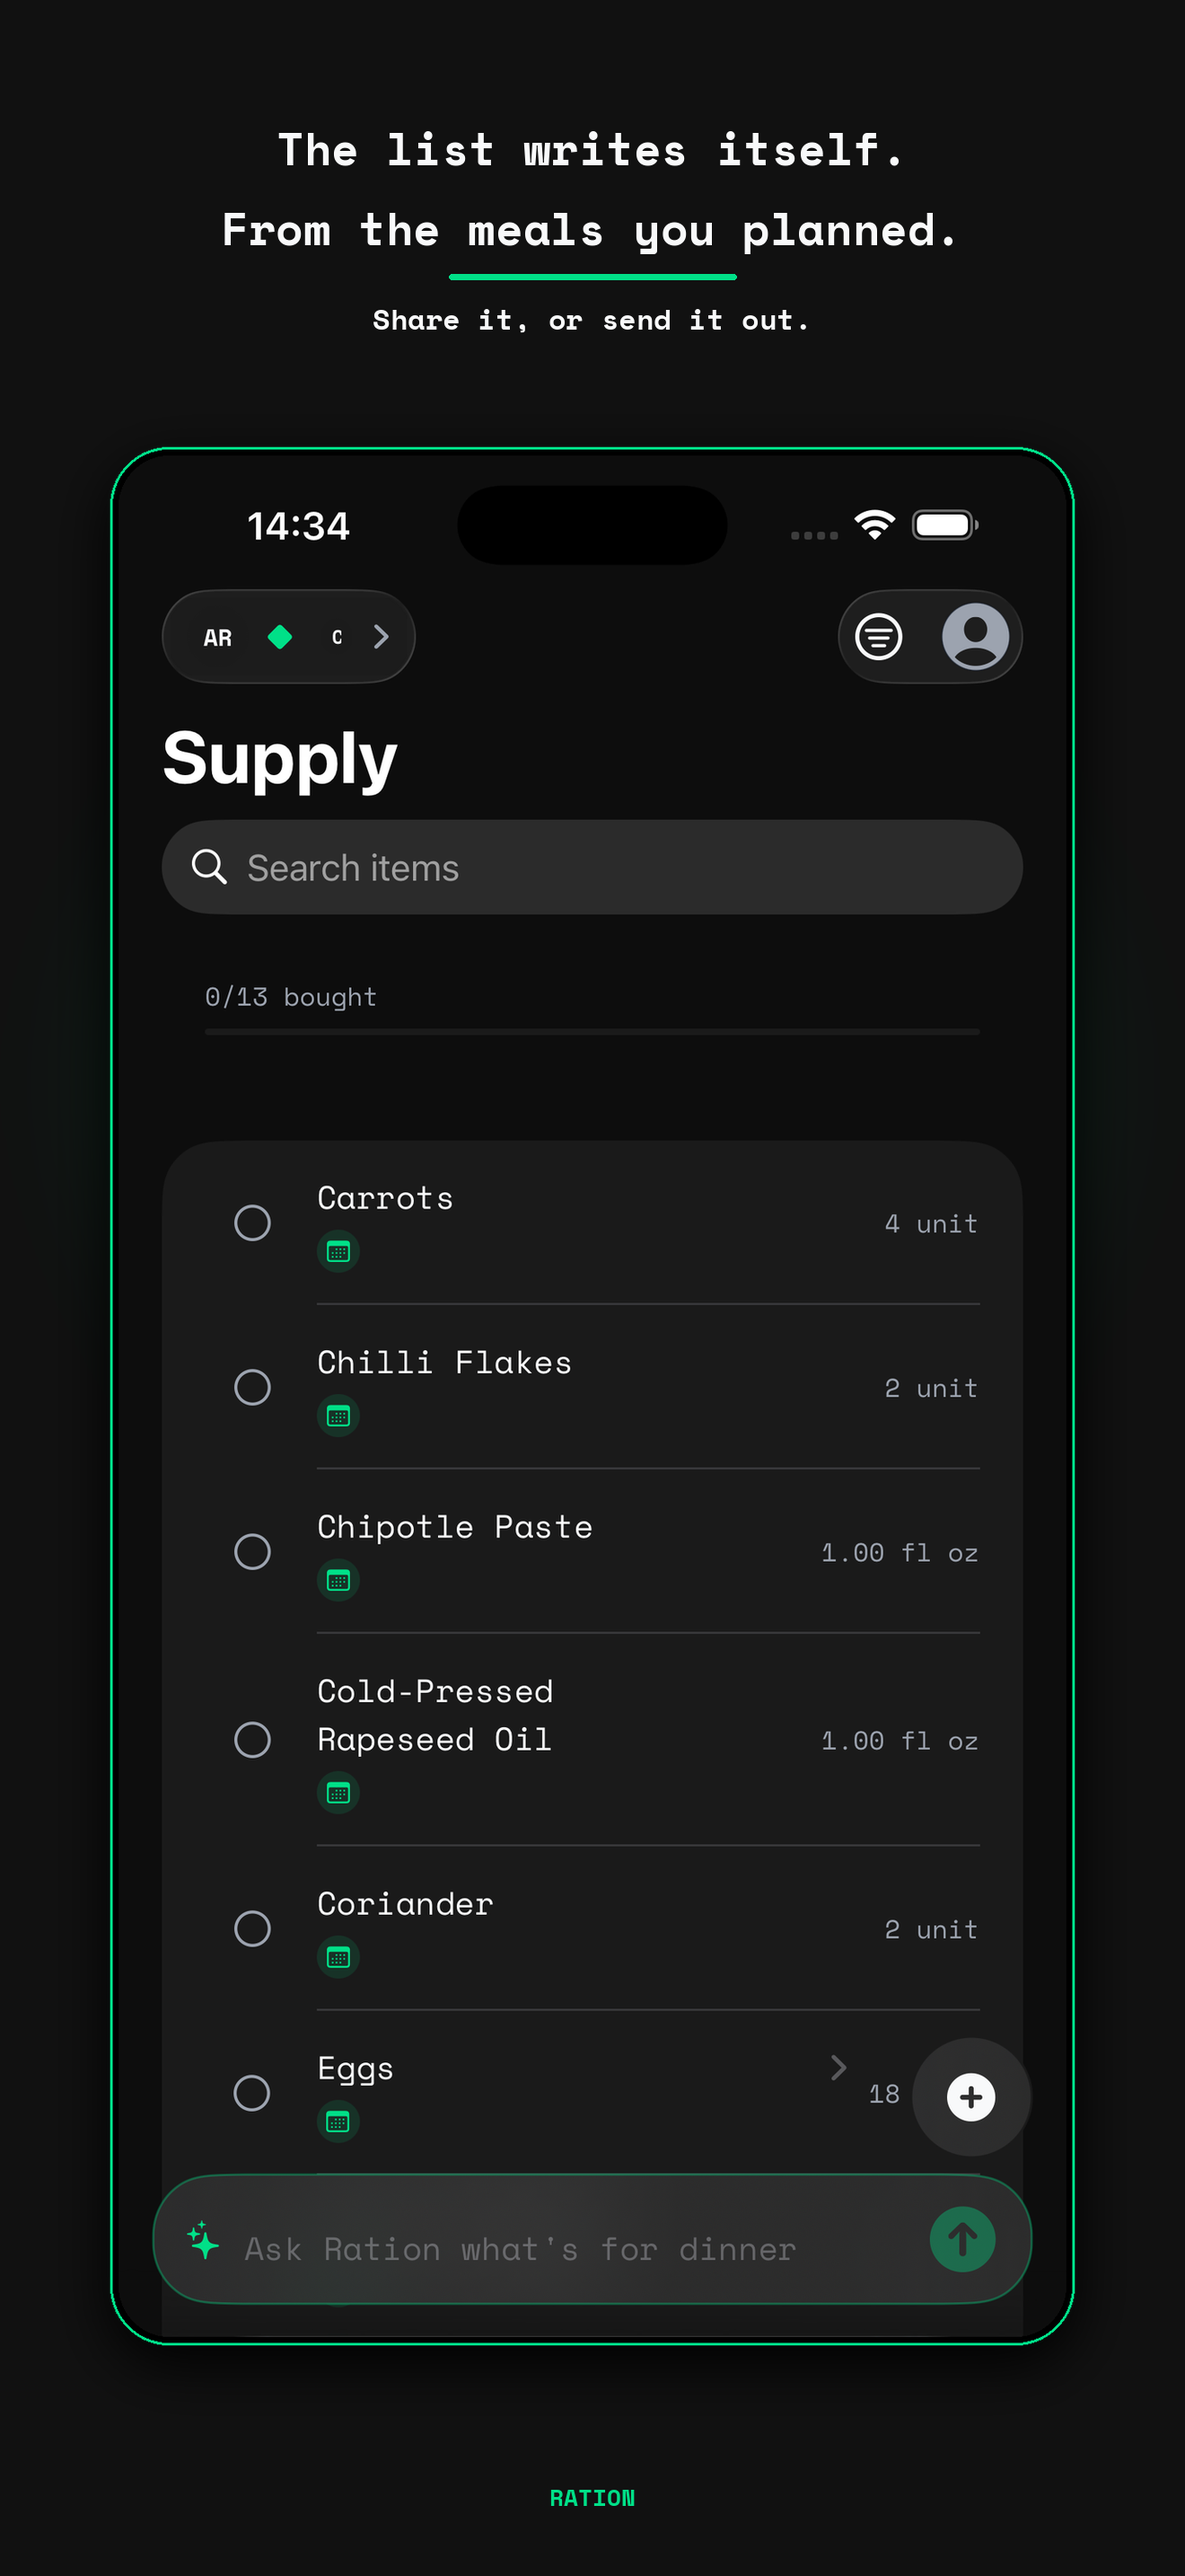
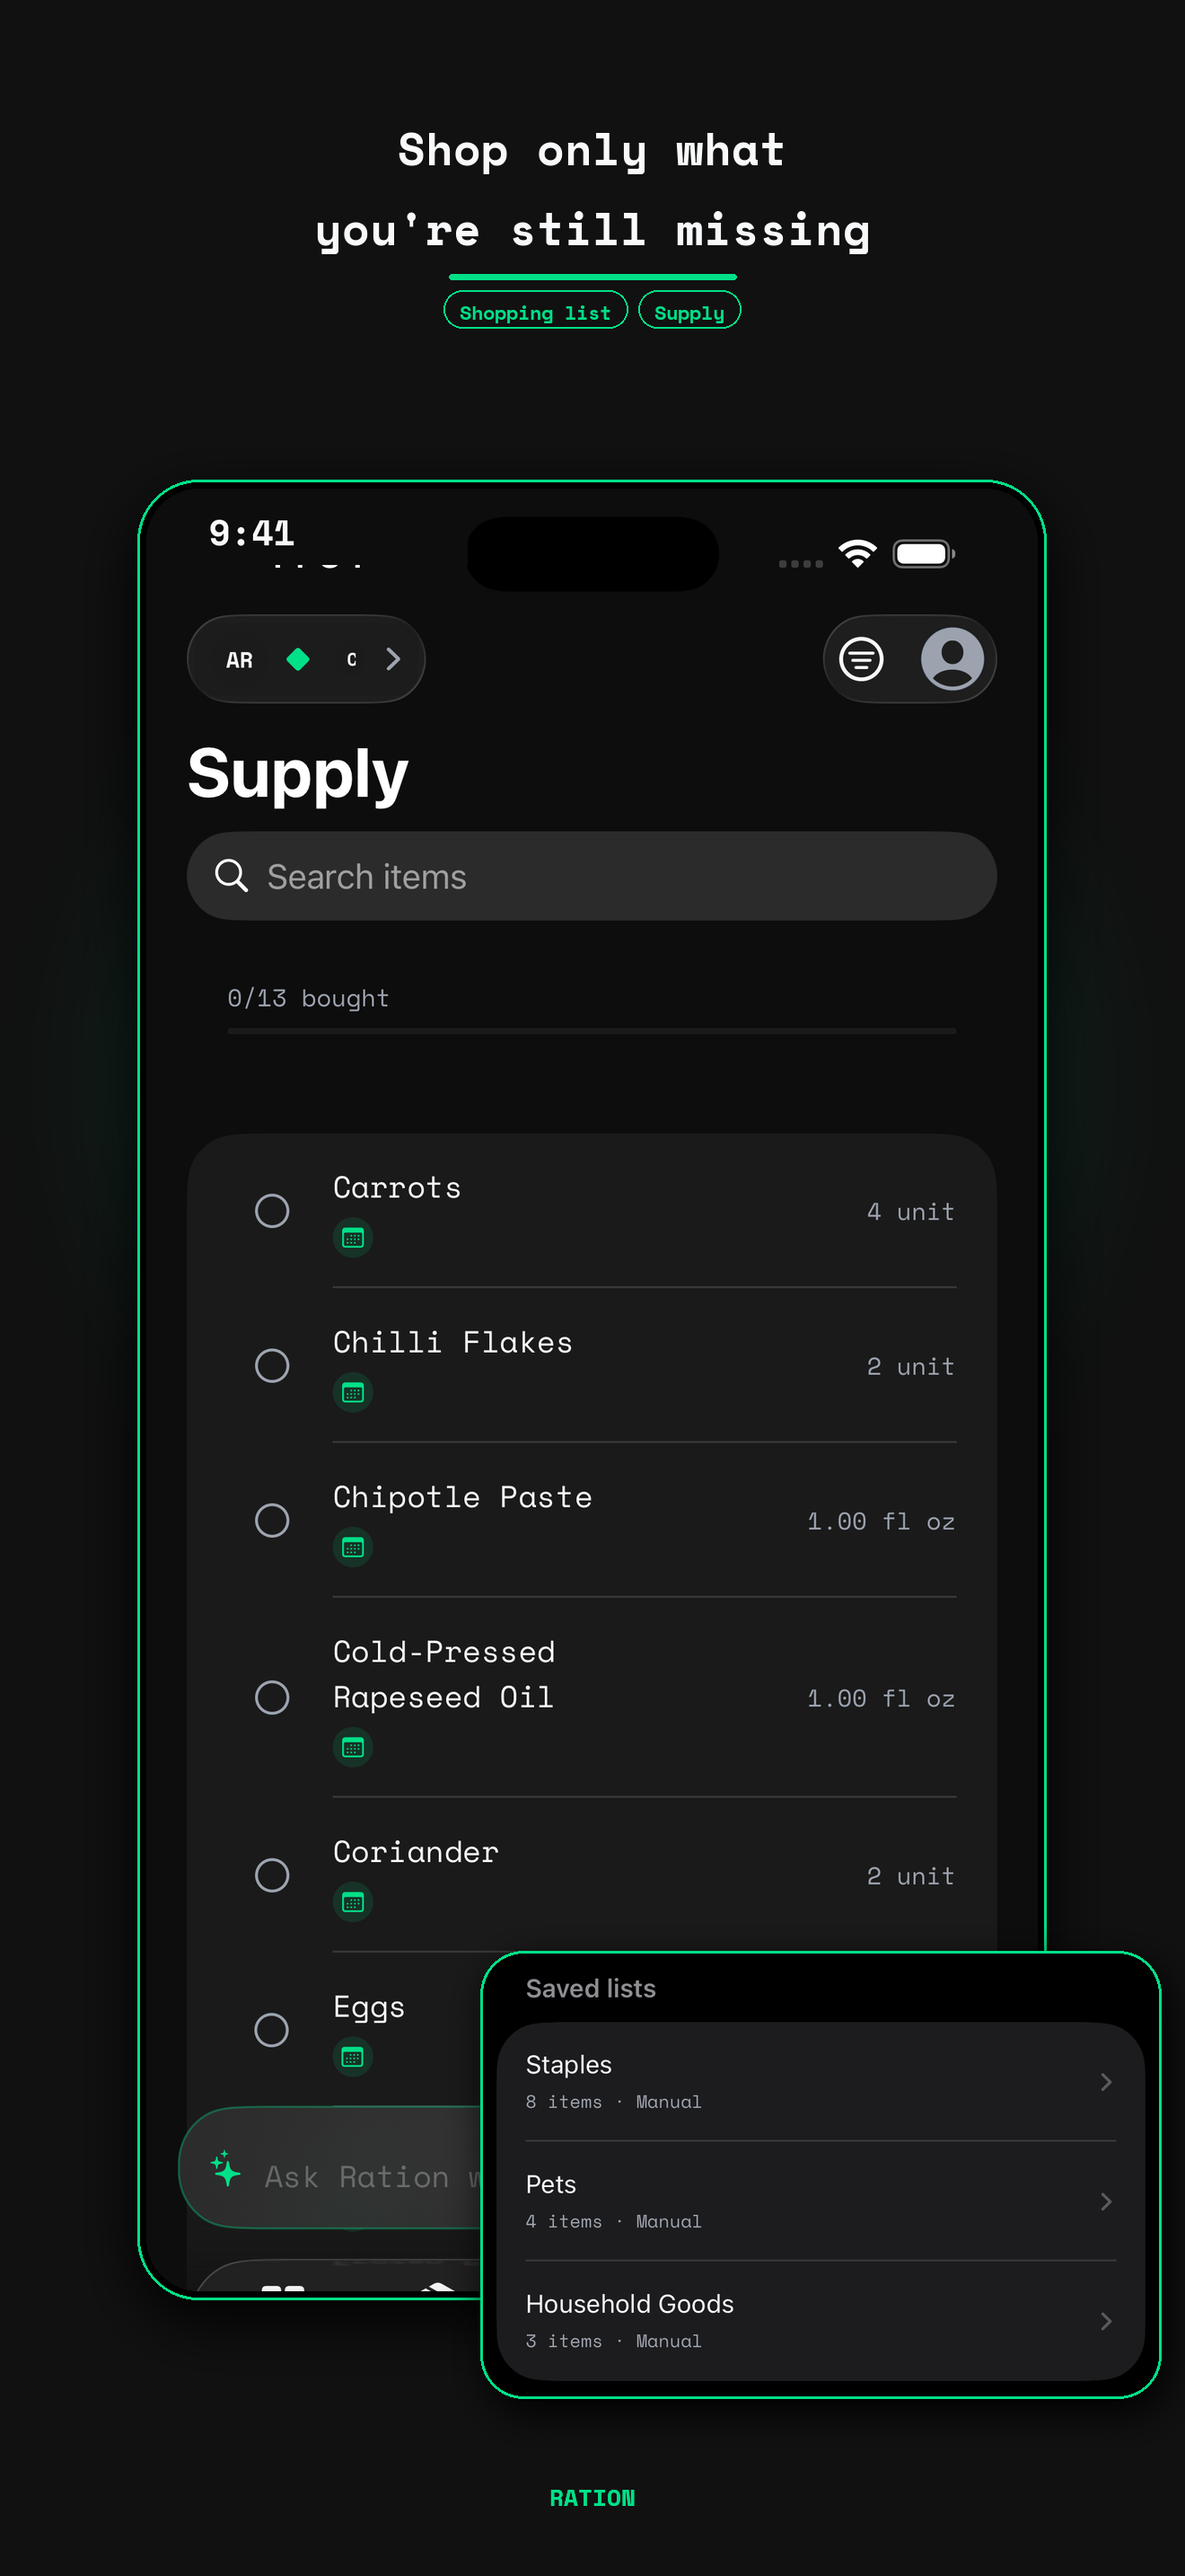
Restore the previous Galley and Supply screenshots
Docs: marketing/appstore/uk/STORYBOARD.md and UPLOAD.md for slides 5 and 7

diff --git a/marketing/appstore/uk/STORYBOARD.md b/marketing/appstore/uk/STORYBOARD.md
@@ -8,12 +8,12 @@ App Store Connect → Media Manager → **iPhone 6.9" Display**. Upload only [`f
 | 2 | [`02-agent-sets-fuel.png`](framed/6.9/1.6/02-agent-sets-fuel.png) | Any agent can run it. / Or use the one inside. |
 | 3 | [`03-import.png`](framed/6.9/1.6/03-import.png) | Save it from the video. / TikTok, Reels, and the web. |
 | 4 | [`04-scan.png`](framed/6.9/1.6/04-scan.png) | Scan the receipt. / The cupboard updates. |
-| 5 | [`05-galley.png`](framed/6.9/1.6/05-galley.png) | Cook from what's here. / Matched to the cupboard. |
+| 5 | [`05-galley.png`](framed/6.9/1.6/05-galley.png) | See what you can cook / with what's here |
 | 6 | [`06-manifest.png`](framed/6.9/1.6/06-manifest.png) | The week's meals. / For everyone in the kitchen. |
-| 7 | [`07-supply.png`](framed/6.9/1.6/07-supply.png) | The list writes itself. / From the meals you planned. |
+| 7 | [`07-supply.png`](framed/6.9/1.6/07-supply.png) | Shop only what / you're still missing |
 | 8 | [`08-hub.png`](framed/6.9/1.6/08-hub.png) | The whole kitchen. / Stock, meals, and today. |
 
-Slide 1 is today's Fuel log, with the Macros screen over it: week, month, or a custom range, the daily average, and how many days were logged. The line under the rule says what the words mean: `Calories, protein, carbs, and fat.` Slide 2 shows the choice. A person's own agent can run the kitchen, and Ask Ration is the assistant inside the app. The names under the rule are type only, with no logos: `Grok · Hermes · Dots · Claude.` Slide 3 keeps the TikTok import photograph and replaces the caption. Slide 4 is the receipt scan, through to the file upload. Slide 5 is Galley, meals matched to what is in the cupboard. Slide 6 is one week for the people who share the kitchen. Slide 7 is the supply list the plan writes. The line under the rule is `Share it, or send it out.` Slide 8 is the Hub: stock, meals, and today.
+Slide 1 is today's Fuel log, with the Macros screen over it: week, month, or a custom range, the daily average, and how many days were logged. The line under the rule says what the words mean: `Calories, protein, carbs, and fat.` Slide 2 shows the choice. A person's own agent can run the kitchen, and Ask Ration is the assistant inside the app. The names under the rule are type only, with no logos: `Grok · Hermes · Dots · Claude.` Slide 3 keeps the TikTok import photograph and replaces the caption. Slide 4 is the receipt scan, through to the file upload. Slide 5 keeps the earlier Galley frame. Slide 6 is one week for the people who share the kitchen. Slide 7 keeps the earlier Supply frame, with the Saved lists cutout. Slide 8 is the Hub: stock, meals, and today.
 
 Leave these in the repo and do **not** upload them for 1.6 (same names under `framed/6.5/` as well): `01-hub.png`, `02-macros.png`, `06-plan.png`, `09-ask.png`, `10-theme.png`. The Hub frame for this set is `framed/6.9/1.6/08-hub.png`, not the older `01-hub.png`.
 

diff --git a/marketing/appstore/uk/UPLOAD.md b/marketing/appstore/uk/UPLOAD.md
@@ -12,12 +12,12 @@ The filename order is the upload order. It stays in this order because the first
 | 2 | `02-agent-sets-fuel.png` | Any agent can run it. / Or use the one inside. | 1320×2868 |
 | 3 | `03-import.png` | Save it from the video. / TikTok, Reels, and the web. | 1320×2868 |
 | 4 | `04-scan.png` | Scan the receipt. / The cupboard updates. | 1320×2868 |
-| 5 | `05-galley.png` | Cook from what's here. / Matched to the cupboard. | 1320×2868 |
+| 5 | `05-galley.png` | See what you can cook / with what's here | 1320×2868 |
 | 6 | `06-manifest.png` | The week's meals. / For everyone in the kitchen. | 1320×2868 |
-| 7 | `07-supply.png` | The list writes itself. / From the meals you planned. | 1320×2868 |
+| 7 | `07-supply.png` | Shop only what / you're still missing | 1320×2868 |
 | 8 | `08-hub.png` | The whole kitchen. / Stock, meals, and today. | 1320×2868 |
 
-PNG, RGB, no alpha. Slide 1 adds `Calories, protein, carbs, and fat.` Slide 2 names `Grok · Hermes · Dots · Claude` in type only, and shows Ask Ration beside the person's own agent. Slide 7 adds `Share it, or send it out.` Do not upload `08-your-agent.png`.
+PNG, RGB, no alpha. Slide 1 adds `Calories, protein, carbs, and fat.` Slide 2 names `Grok · Hermes · Dots · Claude` in type only, and shows Ask Ration beside the person's own agent. Do not upload `08-your-agent.png`.
 
 ## Screenshots — fix “dimensions are wrong”
 
